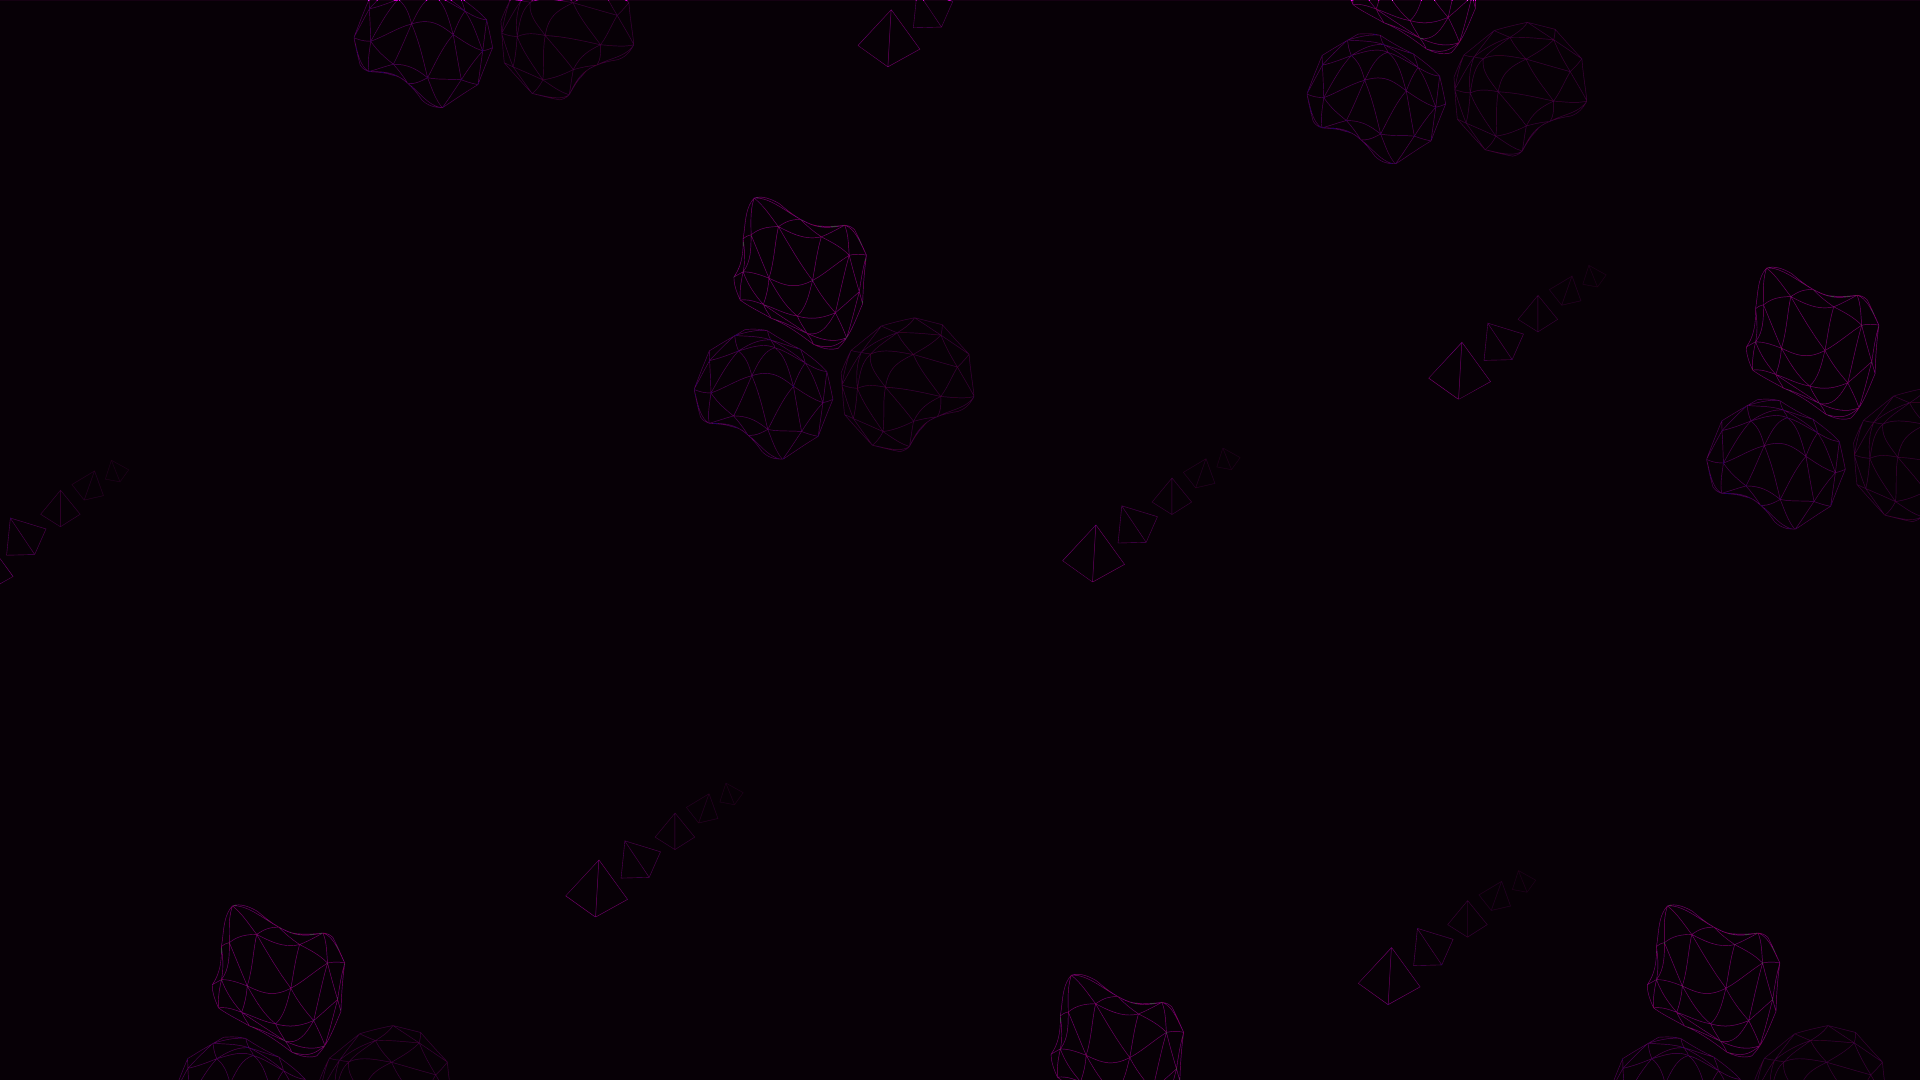
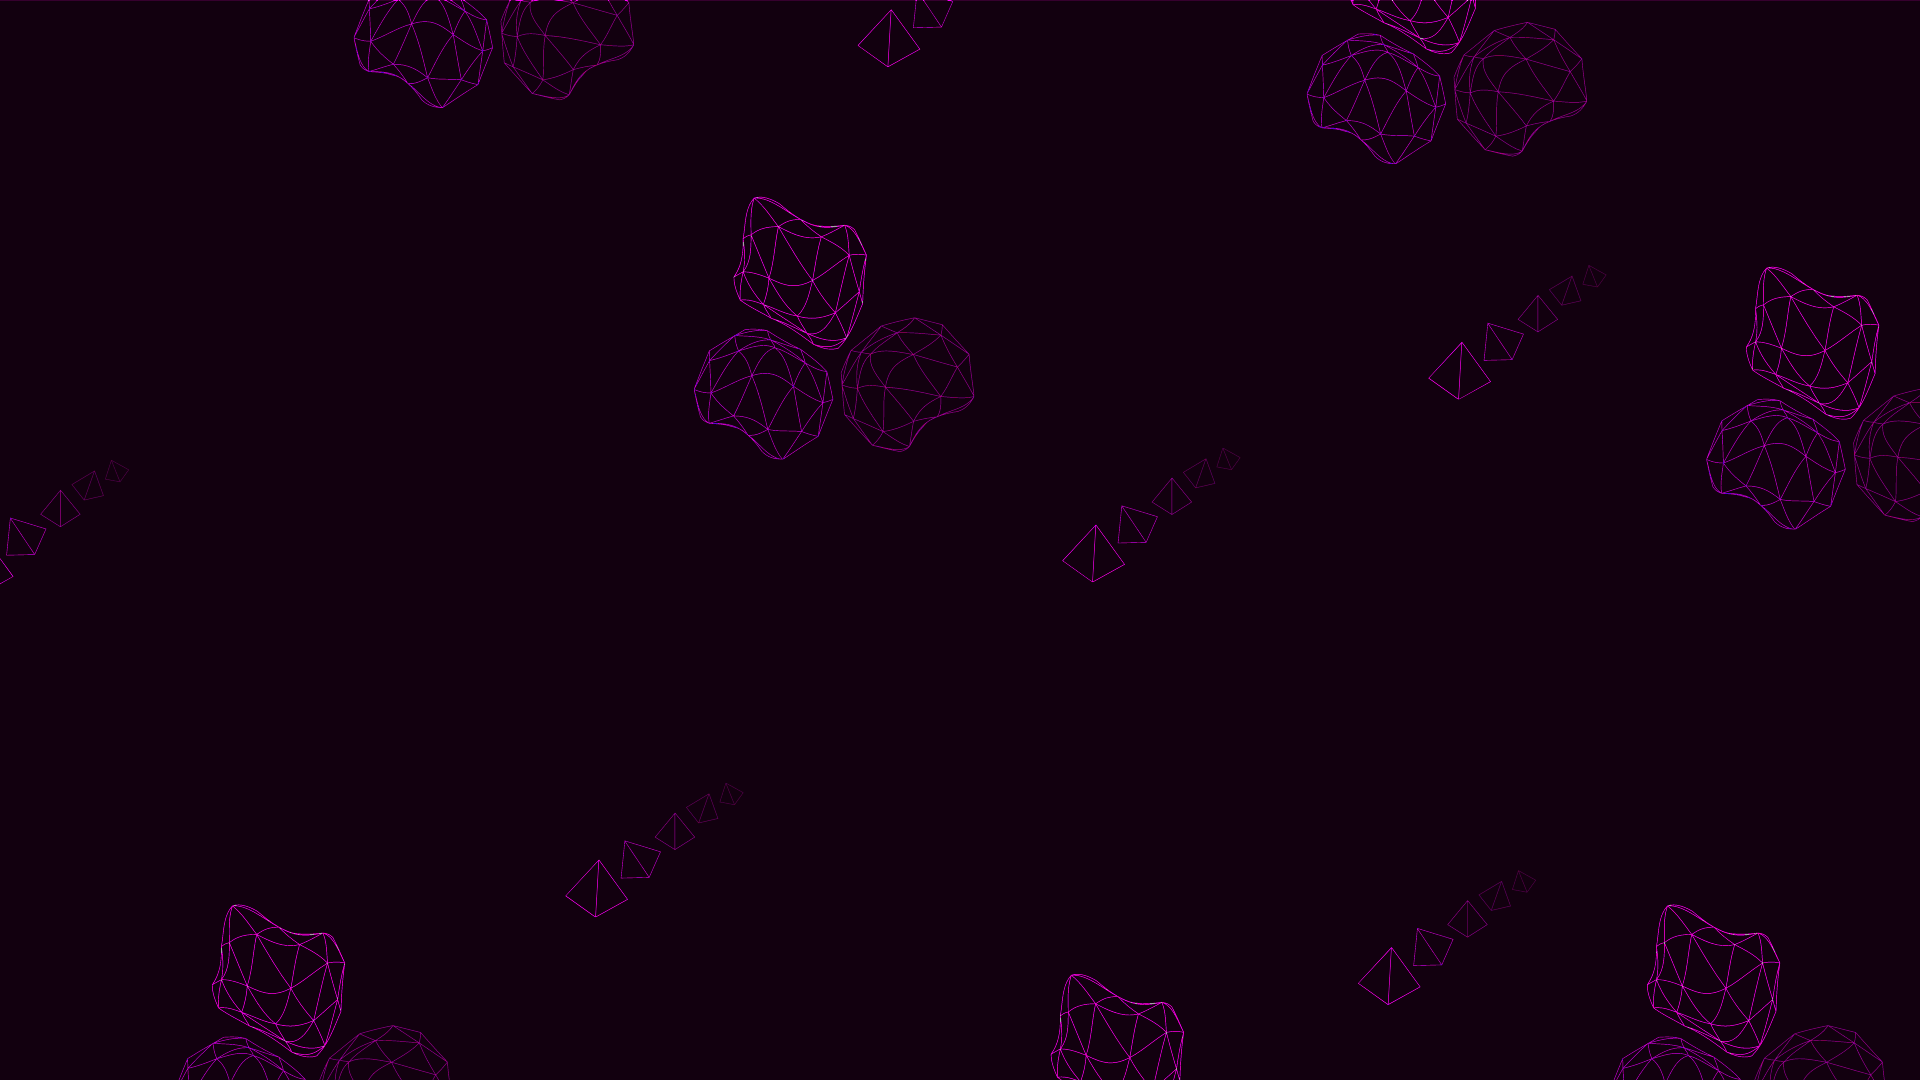
alterando background e carrossel no portfolio

diff --git a/projects/html-and-css/index.html b/projects/html-and-css/index.html
@@ -16,18 +16,43 @@
     </div>
     <div class="menu">
       <ul>
-        <li><a href="/body/index.html">Home</a></li>
-        <li><a href="/body/index.html/">About</a></li>
+        <li><a href="/index.html">Home</a></li>
+        <li><a href="/index.html">About</a></li>
         <li><a href="/body/index.html/">Porfólio</a></li>
         <li><a href="/body/index.html/">Contact</a></li>
       </ul>
     </div>
+  </header>
 
     <main>
       <div class="container">
-        
+          <label class="card" for="item-1">
+            <img src="/body/image/projeto02.png" alt="">
+            <h1>Bande Bot</h1>
+            <p>This is a Landing Page I developed from a fictitious bot for Discord</p>
+            <button> <a href="https://daviibandeiraa.github.io/creating-lading-page/">Click here</a></button>
+          </label>
+  
+          <label class="card" for="item-2">
+            <img src="/body/image/projeto01.png" alt="">
+            <h1>Personal website</h1>
+            <p>This is a project made to test HTML and CSS skills which shows a simple mean calculator in JavaScript</p>
+            <button><a href="https://daviibandeiraa.github.io/site-pessoal-2/">Click here</a></button>
+          </label>
+  
+          <label class="card" for="item-3">
+            <img src="body/image/03.png" alt="">
+            <h1>New Project</h1>
+            <p></p>
+            <button>Click here</button>
+          </label>
+        </div>
       </div>
     </main>
+
+    <footer>
+      <span>Copyright 2023 <a href="https://github.com/daviibandeiraa">DAVI BANDEIRA</a> All Rights Reserved </span>
+    </footer>
 </body>
 
 </html>

diff --git a/index.html b/index.html
@@ -111,23 +111,23 @@
       <input type="radio" name="slider" id="item-3">
       <div class="cards">
         <label class="card" for="item-1" id="song-1">
-          <img src="body/image/projeto02.png" alt="">
-          <h1>Bande Bot</h1>
-          <p>This is a Landing Page I developed from a fictitious bot for Discord</p>
-          <button> <a href="https://daviibandeiraa.github.io/creating-lading-page/">Click here</a></button>
+          <img src="/body/image/____HTML__CSS__.png" alt="">
+          <h1>HTML & CSS</h1>
+          <p>Click here to check out projects made <br> using HTML and CSS</p>
+          <button> <a href="/projects/html-and-css/index.html">Click here</a></button>
         </label>
 
         <label class="card" for="item-2" id="song-2">
-          <img src="body/image/projeto01.png" alt="">
-          <h1>Personal website</h1>
-          <p>This is a project made to test HTML and CSS skills which shows a simple mean calculator in JavaScript</p>
+          <img src="/body/image/js-logo.png" alt="">
+          <h1>JavaScript</h1>
+          <p>Click here to check out projects made <br> using JavaScript</p>
           <button><a href="https://daviibandeiraa.github.io/site-pessoal-2/">Click here</a></button>
         </label>
 
         <label class="card" for="item-3" id="song-3">
-          <img src="body/image/03.png" alt="">
-          <h1>New Project</h1>
-          <p></p>
+          <img src="/body/image/react logo.png" alt="">
+          <h1>React</h1>
+          <p>Click here to check out projects made <br> using React</p>
           <button>Click here</button>
         </label>
       </div>

diff --git a/projects/html-and-css/style.css b/projects/html-and-css/style.css
@@ -1,5 +1,6 @@
 @import url('https://fonts.googleapis.com/css2?family=Montserrat:wght@100;200;300;400;500;600;700;800;900&display=swap');
-*{
+
+* {
   margin: 0;
   padding: 0;
   box-sizing: border-box;
@@ -59,5 +60,74 @@ header .menu ul li a:hover {
 .container {
   width: 100%;
   height: 100vh;
-  background: black;
+  background:url(/body/image/background.png);
+  padding-top: 10vh;
+  display: flex;
+}
+
+.container .card {
+  width: 20%;
+  height: 40%;
+  left: 0;
+  right: 0;
+  margin: 130px auto;
+  display: flex;
+  flex-direction: row;
+  align-items: center;
+  justify-content: center;
+  box-shadow: 0 0 10px 0 #00fa6d;
+  transition: 0.4s ease;
+  cursor: pointer;
+  border-radius: 10px;
+}
+
+
+.container .card img {
+  width: 100%;
+  height: 100%;
+  object-fit: cover;
+  border-radius: 10px;
+  filter: brightness(60%);
+}
+
+.container .card h1 {
+  position: absolute;
+  z-index: 9;
+  color: #fff;
+  font-size: 1.4rem;
+  text-shadow: black 0.1em 0.1em 0.2em
+}
+
+.container .card p {
+  position: absolute;
+  z-index: 9;
+  width: 200px;
+  color: #fff;
+  margin-top: 150px;
+  text-align: justify;
+  text-shadow: black 0.1em 0.1em 0.1em
+}
+
+.container .card button {
+  position: absolute;
+  z-index: 9;
+  margin-top: 400px;
+  padding: 10px 20px;
+  border-radius: 20px;
+  border: none;
+  color: #fff;
+  background-color: #00fa6d;
+  text-transform: uppercase;
+  cursor: pointer;
+}
+
+.container .card button a {
+  text-decoration: none;
+  color: #fff;
+}
+
+.container .cards {
+  position: relative;
+  width: 100%;
+  height: 100%;
 }

diff --git a/style.css b/style.css
@@ -10,7 +10,7 @@
 body {
   width: 100%;
   height: 100vh;
-  background: url(/body/image/homepage.png);
+  background: url(/body/image/home.png);
   background-size: cover;
 }
 
@@ -226,7 +226,7 @@ header .menu ul li a:hover {
 #port .container {
   width: 100%;
   height: 100vh;
-  background: url(body/image/CREATIVE_3\ teste2.png);
+  background: url(body/image/background.png);
   background-size: cover;
   display: flex;
   justify-content: center;
@@ -278,7 +278,8 @@ header .menu ul li a:hover {
   color: #fff;
   margin-top: 200px;
   text-align: justify;
-  text-shadow: black 0.1em 0.1em 0.1em
+  text-shadow: black 0.1em 0.1em 0.1em;
+  text-align: center;
 }
 
 #port .container .card button {
@@ -334,7 +335,7 @@ header .menu ul li a:hover {
 #contact .container {
   width: 100%;
   height: 100vh;
-  background: url(body/image/CREATIVE_3\ teste2.png);
+  background: url(/body/image/background.png);
   background-size: cover;
 }
 
